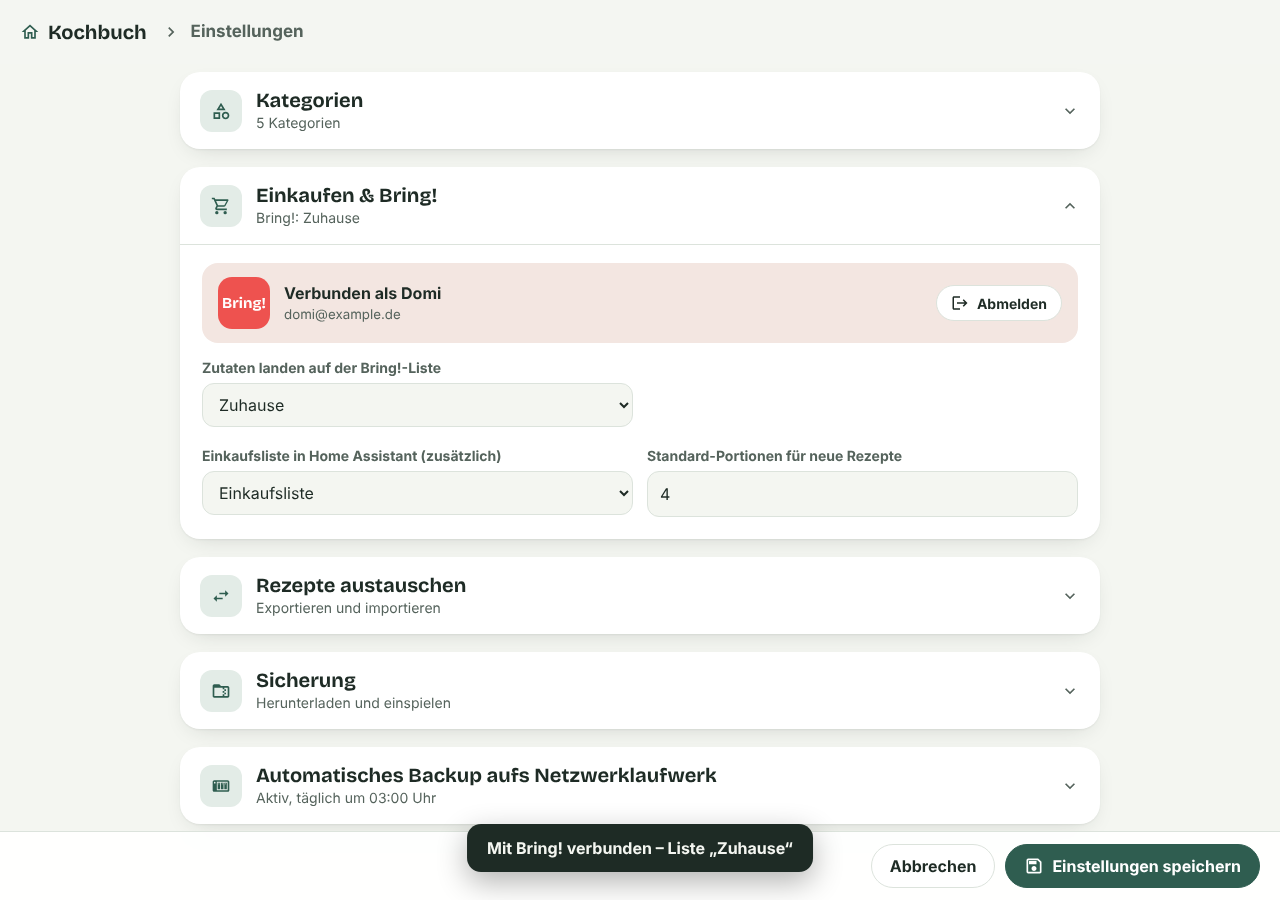
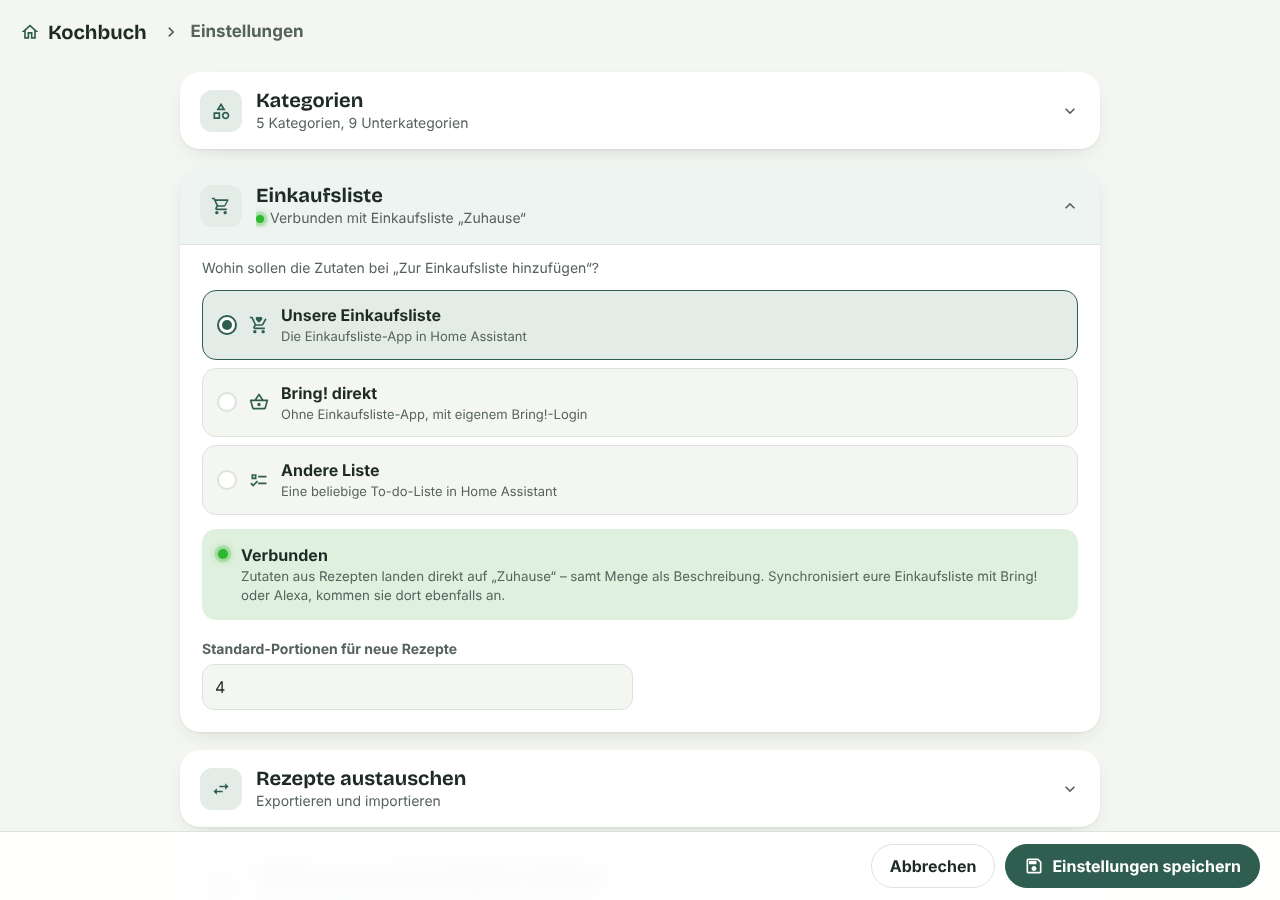
Kochbuch 1.9.0: Verbindung zur Einkaufsliste-App
- Einstellungen › Einkaufsliste: Ziel wählbar (Unsere Einkaufsliste, Bring! direkt, andere Liste)
- Zutaten gehen als Artikel + Menge (Beschreibung) an die Einkaufsliste
- Grünes Lämpchen bei aktiver Verbindung; ws kochbuch/link für die Einkaufsliste-Karte

Claude-Session: https://claude.ai/code/session_01DF6XX5kd56oiDmByM1R25Q

diff --git a/custom_components/kochbuch/frontend/kochbuch-panel.js b/custom_components/kochbuch/frontend/kochbuch-panel.js
@@ -1,7 +1,7 @@
 /* Kochbuch – Panel für Home Assistant
  * https://github.com/domiundergroun/Kochrezepte
  */
-const KB_VERSION = "1.8.1";
+const KB_VERSION = "1.9.0";
 
 /* ------------------------------------------------------------------ Hilfen */
 const esc = (v) =>
@@ -681,6 +681,29 @@ code { background: var(--kb-paper); padding: 1px 5px; border-radius: 5px; font-s
 :host([dark]) .serv-quick button.on { color: #0E1A15; }
 .serv-note { color: var(--kb-ink-soft); font-size: 14px; margin: 0; text-align: center; }
 .shop-for { display: inline-flex; align-items: center; gap: 6px; font-weight: 700; color: var(--kb-ink); }
+
+/* Einkaufsliste-Ziel */
+.target-opts { display: grid; gap: 8px; }
+.target-opt { display: flex; align-items: center; gap: 12px; text-align: left; padding: 12px 14px; border-radius: 14px; border: 1.5px solid var(--kb-line); background: var(--kb-paper); }
+.target-opt:hover { border-color: var(--kb-herb); }
+.target-opt.on { border-color: var(--kb-herb); background: var(--kb-herb-soft); }
+.target-opt > ha-icon { color: var(--kb-herb); flex: none; }
+.to-radio { width: 20px; height: 20px; border-radius: 50%; border: 2px solid var(--kb-line); flex: none; position: relative; background: var(--kb-surface); }
+.target-opt.on .to-radio { border-color: var(--kb-herb); }
+.target-opt.on .to-radio::after { content: ""; position: absolute; inset: 3px; border-radius: 50%; background: var(--kb-herb); }
+.to-text { display: flex; flex-direction: column; min-width: 0; }
+.to-text small { color: var(--kb-ink-soft); font-size: 13px; }
+.target-body { margin-top: 14px; }
+.lamp { display: inline-block; width: 10px; height: 10px; border-radius: 50%; margin-right: 7px; vertical-align: 0; flex: none; }
+.lamp.on { background: #2EB82E; box-shadow: 0 0 0 3px rgba(46,184,46,.22), 0 0 8px rgba(46,184,46,.8); animation: glow 2.4s ease-in-out infinite; }
+.lamp.off { background: var(--kb-tomato); box-shadow: 0 0 0 3px color-mix(in srgb, var(--kb-tomato) 22%, transparent); }
+@keyframes glow { 50% { box-shadow: 0 0 0 5px rgba(46,184,46,.12), 0 0 12px rgba(46,184,46,.9); } }
+.link-box { display: flex; align-items: flex-start; gap: 6px; padding: 14px 16px; border-radius: 14px; background: var(--kb-paper); }
+.link-box.ok { background: color-mix(in srgb, #2EB82E 10%, var(--kb-paper)); }
+.link-box .lamp { margin-top: 6px; }
+.link-box div { display: flex; flex-direction: column; }
+.link-box small { color: var(--kb-ink-soft); }
+.fold-text small .lamp { width: 8px; height: 8px; margin-right: 6px; }
 
 /* Dialoge */
 .scrim {
@@ -1585,13 +1608,7 @@ class KochbuchPanel extends HTMLElement {
         <div class="rows">${cats || `<p class="muted">Noch keine Kategorien.</p>`}</div>
         <div class="add-row"><button class="btn" data-action="cat-add"><ha-icon icon="mdi:plus"></ha-icon>Hauptkategorie hinzufügen</button></div>
       `)}
-      ${this._fold("einkaufen", "mdi:cart-outline", "Einkaufen & Bring!", this._bringReady() ? `Bring!: ${esc((s.bring || {}).list_name || "verbunden")}` : (s.shopping_list ? esc(name(s.shopping_list)) : "Nicht eingerichtet"), `
-        ${this._renderBring()}
-        <div class="fields" style="margin-top:18px">
-          <div class="f s3"><label for="s-list">Einkaufsliste in Home Assistant${this._bringReady() ? " (zusätzlich)" : ""}</label>
-            <select id="s-list" data-s="shopping_list"><option value="">Keine</option>${todos.map((e) => `<option value="${esc(e)}" ${s.shopping_list === e ? "selected" : ""}>${esc(name(e))}</option>`).join("")}</select></div>
-          <div class="f s3"><label for="s-serv">Standard-Portionen für neue Rezepte</label><input id="s-serv" type="number" min="1" data-s="default_servings" value="${s.default_servings || 4}"></div>
-        </div>`)}
+      ${this._fold("einkaufen", "mdi:cart-outline", "Einkaufsliste", this._shopSummary(s), this._renderShopSettings(s, todos, name))}
       ${this._fold("austausch", "mdi:swap-horizontal", "Rezepte austauschen", "Exportieren und importieren", `
         <p class="muted" style="margin:-6px 0 14px">Gebt Rezepte als Datei weiter, z. B. an Freunde mit eigenem Kochbuch, oder übernehmt Rezepte aus so einer Datei. Fotos sind enthalten. Einzelne Rezepte oder ganze Kategorien exportiert ihr direkt dort über <ha-icon icon="mdi:export-variant" style="--mdc-icon-size:16px;vertical-align:-3px"></ha-icon>.</p>
         <div class="settings-actions">
@@ -1615,6 +1632,87 @@ class KochbuchPanel extends HTMLElement {
       </button>
       ${open ? `<div class="fold-body">${body}</div>` : ""}
     </section>`;
+  }
+
+  _appEntities() {
+    const reg = this._hass.entities || {};
+    return Object.keys(this._hass.states).filter((e) => e.startsWith("todo.") && reg[e]?.platform === "einkaufsliste").sort();
+  }
+
+  _appEntity(st = this.settings) {
+    const apps = this._appEntities();
+    return apps.includes(st.shopping_app) ? st.shopping_app : apps[0] || "";
+  }
+
+  /** Wohin die Zutaten gehen: {kind: "einkaufsliste"|"bring"|"todo"|"", entity} */
+  _shopTarget(st = this.settings) {
+    const t = st.shopping_target || "";
+    const app = this._appEntity(st);
+    const bring = !!(st.bring && st.bring.email && st.bring.list_uuid);
+    const todo = st === this.settings ? this._todoTarget() : st.shopping_list;
+    if (t === "einkaufsliste") return { kind: app ? "einkaufsliste" : "", entity: app };
+    if (t === "bring") return { kind: bring ? "bring" : "" };
+    if (t === "todo") return { kind: todo ? "todo" : "", entity: todo };
+    if (app) return { kind: "einkaufsliste", entity: app };
+    if (bring) return { kind: "bring" };
+    return { kind: todo ? "todo" : "", entity: todo };
+  }
+
+  _appConnected(st = this.settings) {
+    const t = this._shopTarget(st);
+    if (t.kind !== "einkaufsliste") return false;
+    const state = this._hass.states[t.entity];
+    return !!state && !["unavailable", "unknown"].includes(state.state);
+  }
+
+  _shopSummary(st) {
+    const t = this._shopTarget(st);
+    const fname = (e) => this._hass.states[e]?.attributes?.friendly_name || e;
+    if (t.kind === "einkaufsliste") {
+      return this._appConnected(st)
+        ? `<span class="lamp on"></span>Verbunden mit Einkaufsliste „${esc(fname(t.entity))}“`
+        : `<span class="lamp off"></span>Einkaufsliste nicht erreichbar`;
+    }
+    if (t.kind === "bring") return `Bring!: ${esc((st.bring || {}).list_name || "verbunden")}`;
+    if (t.kind === "todo") return esc(fname(t.entity));
+    return "Nicht eingerichtet";
+  }
+
+  _renderShopSettings(st, todos, name) {
+    const apps = this._appEntities();
+    const t = st.shopping_target || (apps.length ? "einkaufsliste" : this._bringReady() ? "bring" : "todo");
+    const opt = (id, icon, title, sub, disabled) => `<button type="button" class="target-opt ${t === id ? "on" : ""}" data-action="shop-target-set" data-t="${id}" ${disabled ? "disabled" : ""} aria-pressed="${t === id}">
+        <span class="to-radio"></span><ha-icon icon="${icon}"></ha-icon><span class="to-text"><b>${title}</b><small>${sub}</small></span></button>`;
+    let body = "";
+    if (t === "einkaufsliste") {
+      const ent = this._appEntity(st);
+      const ok = this._appConnected({ ...st, shopping_target: "einkaufsliste" });
+      body = apps.length ? `
+        <div class="link-box ${ok ? "ok" : "bad"}">
+          <span class="lamp ${ok ? "on" : "off"}"></span>
+          <div><b>${ok ? "Verbunden" : "Nicht erreichbar"}</b><small>${ok ? `Zutaten aus Rezepten landen direkt auf „${esc(name(ent))}“ – samt Menge als Beschreibung. Synchronisiert eure Einkaufsliste mit Bring! oder Alexa, kommen sie dort ebenfalls an.` : "Die Liste meldet sich gerade nicht. Ist die Einkaufsliste-Integration eingerichtet und Home Assistant gestartet?"}</small></div>
+        </div>
+        ${apps.length > 1 ? `<div class="fields" style="margin-top:14px"><div class="f s3"><label for="s-app">Liste</label>
+          <select id="s-app" data-s="shopping_app">${apps.map((e) => `<option value="${esc(e)}" ${e === ent ? "selected" : ""}>${esc(name(e))}</option>`).join("")}</select></div></div>` : `<input type="hidden" data-s="shopping_app" value="${esc(ent)}">`}`
+        : `<p class="hint" style="color:var(--kb-tomato)">Die Integration „Einkaufsliste“ wurde nicht gefunden. Installiert sie über HACS (domiundergroun/Einkaufsliste) und richtet sie ein.</p>`;
+    } else if (t === "bring") {
+      body = this._renderBring();
+    } else {
+      body = `<div class="fields"><div class="f s3"><label for="s-list">To-do-Liste in Home Assistant</label>
+        <select id="s-list" data-s="shopping_list"><option value="">Bitte wählen</option>${todos.filter((e) => !apps.includes(e)).map((e) => `<option value="${esc(e)}" ${st.shopping_list === e ? "selected" : ""}>${esc(name(e))}</option>`).join("")}</select></div></div>`;
+    }
+    return `
+      <p class="muted" style="margin:-6px 0 12px">Wohin sollen die Zutaten bei „Zur Einkaufsliste hinzufügen“?</p>
+      <div class="target-opts">
+        ${opt("einkaufsliste", "mdi:cart-heart", "Unsere Einkaufsliste", apps.length ? "Die Einkaufsliste-App in Home Assistant" : "Nicht installiert", false)}
+        ${opt("bring", "mdi:basket-outline", "Bring! direkt", "Ohne Einkaufsliste-App, mit eigenem Bring!-Login", false)}
+        ${opt("todo", "mdi:format-list-checks", "Andere Liste", "Eine beliebige To-do-Liste in Home Assistant", false)}
+      </div>
+      <input type="hidden" data-s="shopping_target" value="${esc(t)}">
+      <div class="target-body">${body}</div>
+      <div class="fields" style="margin-top:18px">
+        <div class="f s3"><label for="s-serv">Standard-Portionen für neue Rezepte</label><input id="s-serv" type="number" min="1" data-s="default_servings" value="${st.default_servings || 4}"></div>
+      </div>`;
   }
 
   _renderBring() {
@@ -1851,12 +1949,12 @@ class KochbuchPanel extends HTMLElement {
           <div class="row"><button class="btn" data-action="dlg-close">Abbrechen</button><button class="btn primary" data-action="shop-next"><ha-icon icon="mdi:arrow-right"></ha-icon>Weiter zu den Zutaten</button></div>`;
       } else {
         const items = this._shopItems(d);
-        const both = this._bringReady() && this._todoTarget();
+        const both = false;
         const n = items.filter((i) => i.name && i.on).length;
         const total = items.filter((i) => i.name).length;
         const label = "zur Einkaufsliste hinzufügen";
         inner = `<h2>Was fehlt noch?</h2>
-          <p>Mengen <button class="linkish shop-for" data-action="shop-back"><ha-icon icon="mdi:account-group-outline" style="--mdc-icon-size:18px"></ha-icon>für ${d.servings} ${esc(word)} (ändern)</button>. Wählt ab, was ihr daheim habt. Der Rest kommt ${d.target === "bring" ? `auf eure Einkaufsliste${this.settings.bring?.list_name ? ` „${esc(this.settings.bring.list_name)}“` : ""}` : "auf die Einkaufsliste"}.</p>
+          <p>Mengen <button class="linkish shop-for" data-action="shop-back"><ha-icon icon="mdi:account-group-outline" style="--mdc-icon-size:18px"></ha-icon>für ${d.servings} ${esc(word)} (ändern)</button>. Wählt ab, was ihr daheim habt. Der Rest kommt ${d.target === "bring" ? `auf eure Einkaufsliste${this.settings.bring?.list_name ? ` „${esc(this.settings.bring.list_name)}“` : ""}` : d.entity ? `auf eure Einkaufsliste „${esc(this._hass.states[d.entity]?.attributes?.friendly_name || d.entity)}“` : "auf die Einkaufsliste"}.</p>
           ${both ? `<div class="seg"><button class="${d.target === "bring" ? "on" : ""}" data-action="shop-target" data-t="bring">${esc(this.settings.bring?.list_name || "Bring!")}</button><button class="${d.target === "todo" ? "on" : ""}" data-action="shop-target" data-t="todo">${esc(this._hass.states[this._todoTarget()]?.attributes?.friendly_name || "Home Assistant")}</button></div>` : ""}
           <div class="shop-head"><span>${n} von ${total} ausgewählt</span><span><button class="linkish" data-action="shop-all" data-on="1">Alle</button><button class="linkish" data-action="shop-all" data-on="0">Keine</button></span></div>
           <ul class="shop-list">${orderWithin(items.map((it) => ({ ...it, heading: !!it.group })), (e) => !e.on).map((it) => it.group ? `<li class="shop-group">${esc(it.group)}</li>`
@@ -1909,9 +2007,9 @@ class KochbuchPanel extends HTMLElement {
 
   _openShop() {
     const r = this._recipe(this.view.id);
-    const target = this._bringReady() ? "bring" : "todo";
-    if (target === "todo" && !this._todoTarget()) { this._showToast("Keine Einkaufsliste eingerichtet – meldet euch in den Einstellungen bei Bring! an.", true); return; }
-    this.dialog = { type: "shop", step: "servings", recipeId: r.id, servings: this.servings || r.servings, off: new Set(this.checked), target };
+    const t = this._shopTarget();
+    if (!t.kind) { this._showToast("Keine Einkaufsliste eingerichtet – wählt sie in den Einstellungen unter „Einkaufsliste“.", true); return; }
+    this.dialog = { type: "shop", step: "servings", recipeId: r.id, servings: this.servings || r.servings, off: new Set(this.checked), target: t.kind, entity: t.entity };
     this.render();
   }
 
@@ -1961,9 +2059,19 @@ class KochbuchPanel extends HTMLElement {
         }) });
         where = res.list_name ? `die Einkaufsliste „${res.list_name}“` : "die Einkaufsliste";
       } else {
-        const entity = this._todoTarget();
-        for (const i of items) await this._hass.callService("todo", "add_item", { item: i.spec ? `${i.name} (${i.spec})` : i.name }, { entity_id: entity });
-        where = `„${this._hass.states[entity]?.attributes?.friendly_name || entity}“`;
+        const entity = d.entity || this._todoTarget();
+        const st = this._hass.states[entity];
+        if (!st || st.state === "unavailable") throw new Error("Die Einkaufsliste ist gerade nicht erreichbar");
+        // Listen mit Beschreibungsfeld (z. B. unsere Einkaufsliste) bekommen die Menge als Beschreibung
+        const withDesc = ((st.attributes.supported_features || 0) & 64) === 64;
+        for (const i of items) {
+          const [nm, ...rest] = i.name.split(/,\s*/);
+          const name = d.target === "einkaufsliste" ? nm.trim() || i.name : i.name;
+          const spec = d.target === "einkaufsliste" ? [i.spec, rest.join(", ")].filter(Boolean).join(", ") : i.spec;
+          const data = withDesc ? { item: name, ...(spec ? { description: spec } : {}) } : { item: spec ? `${name} (${spec})` : name };
+          await this._hass.callService("todo", "add_item", data, { entity_id: entity });
+        }
+        where = `die Einkaufsliste „${st.attributes.friendly_name || entity}“`;
       }
       this.dialog = null; this.render();
       this._showToast(`${items.length} ${items.length === 1 ? "Zutat" : "Zutaten"} auf ${where}`);
@@ -2095,6 +2203,7 @@ class KochbuchPanel extends HTMLElement {
       case "shop-next": this.dialog.step = "list"; this.servings = this.dialog.servings; this.render(); break;
       case "shop-back": this.dialog.step = "servings"; this.dialog.error = null; this.render(); break;
       case "shop-target": this.dialog.target = el.dataset.t; this.render(); break;
+      case "shop-target-set": this._readSettings(); this.settingsDraft.shopping_target = el.dataset.t; this.render(); break;
       case "shop-go": this._sendShop(); break;
       case "fold": this._readSettings(); if (this.folds.has(id)) this.folds.delete(id); else this.folds.add(id); try { localStorage.setItem("kochbuch-folds", JSON.stringify([...this.folds])); } catch (e) { /* egal */ } this.render(); break;
       case "bring-login": {

diff --git a/custom_components/kochbuch/websocket.py b/custom_components/kochbuch/websocket.py
@@ -12,9 +12,10 @@ import voluptuous as vol
 from homeassistant.components import websocket_api
 from homeassistant.core import HomeAssistant, callback
 from homeassistant.helpers.aiohttp_client import async_get_clientsession
+from homeassistant.helpers import entity_registry as er
 from homeassistant.helpers.dispatcher import async_dispatcher_connect
 
-from .const import DOMAIN, SIGNAL_UPDATED, VERSION
+from .const import DOMAIN, EINKAUFSLISTE_DOMAIN, SIGNAL_UPDATED, VERSION
 from .importer import async_import_url
 from .bring import BringClient, BringError
 from .backup import BackupError, clean_backup_config, public_backup, test_connection
@@ -51,6 +52,7 @@ def async_register(hass: HomeAssistant) -> None:
         ws_bring_select,
         ws_bring_logout,
         ws_bring_add,
+        ws_link,
     ):
         websocket_api.async_register_command(hass, handler)
 
@@ -339,3 +341,30 @@ async def ws_bring_add(hass, connection, msg):
             store.bring_auth = client.auth
             await store.async_save_bring_tokens()
     connection.send_result(msg["id"], {"added": count, "list_name": info.get("list_name", "")})
+
+
+# ------------------------------------------------ Verbindung zur Einkaufsliste
+def link_status(hass: HomeAssistant) -> dict[str, Any]:
+    """Ist das Kochbuch mit der Einkaufsliste-Integration verbunden?"""
+    settings = _store(hass).settings
+    entity_id = settings.get("shopping_app") or ""
+    target = settings.get("shopping_target") or ""
+    platform_ok = False
+    if entity_id:
+        entry = er.async_get(hass).async_get(entity_id)
+        platform_ok = bool(entry and entry.platform == EINKAUFSLISTE_DOMAIN)
+    state = hass.states.get(entity_id) if entity_id else None
+    available = bool(state and state.state not in ("unavailable", "unknown"))
+    return {
+        "target": target,
+        "entity_id": entity_id,
+        "name": (state.attributes.get("friendly_name") if state else "") or entity_id,
+        "connected": target == "einkaufsliste" and platform_ok and available,
+        "version": VERSION,
+    }
+
+
+@websocket_api.websocket_command({vol.Required("type"): "kochbuch/link"})
+@callback
+def ws_link(hass, connection, msg):
+    connection.send_result(msg["id"], link_status(hass))

diff --git a/custom_components/kochbuch/store.py b/custom_components/kochbuch/store.py
@@ -27,6 +27,7 @@ from .const import (
     DEFAULT_SETTINGS,
     IMAGES_DIR,
     IMAGES_URL,
+    SHOPPING_TARGETS,
     SIGNAL_UPDATED,
     STORAGE_KEY,
     STORAGE_VERSION,
@@ -293,6 +294,11 @@ class KochbuchStore:
     async def async_set_settings(self, settings: dict[str, Any]) -> dict[str, Any]:
         if "shopping_list" in settings:
             self.settings["shopping_list"] = _str(settings["shopping_list"], 200)
+        if "shopping_target" in settings:
+            target = _str(settings["shopping_target"], 20)
+            self.settings["shopping_target"] = target if target in SHOPPING_TARGETS else ""
+        if "shopping_app" in settings:
+            self.settings["shopping_app"] = _str(settings["shopping_app"], 200)
         if "default_servings" in settings:
             self.settings["default_servings"] = _int(
                 settings["default_servings"], 4, 1, 100

diff --git a/custom_components/kochbuch/const.py b/custom_components/kochbuch/const.py
@@ -1,7 +1,7 @@
 """Konstanten für die Kochbuch-Integration."""
 
 DOMAIN = "kochbuch"
-VERSION = "1.8.1"
+VERSION = "1.9.0"
 
 STORAGE_KEY = "kochbuch.rezepte"
 STORAGE_VERSION = 1
@@ -56,8 +56,14 @@ CATEGORY_ALIASES_V17 = {
 
 DEFAULT_SETTINGS = {
     "shopping_list": "",
+    # Wohin „Zur Einkaufsliste hinzufügen“ schickt: einkaufsliste | bring | todo ("" = automatisch)
+    "shopping_target": "",
+    "shopping_app": "",
     "default_servings": 4,
     "categories": DEFAULT_CATEGORIES,
     "categories_v17": True,
     "categories_v18": True,
 }
+
+EINKAUFSLISTE_DOMAIN = "einkaufsliste"
+SHOPPING_TARGETS = ("", "einkaufsliste", "bring", "todo")

diff --git a/README.md b/README.md
@@ -2,7 +2,7 @@
 
 Euer gemeinsames Rezeptbuch direkt in Home Assistant – mit eigener Seite in der Seitenleiste, Kochmodus fürs Küchentablet und Einkaufsliste per Knopfdruck.
 
-![Version](https://img.shields.io/badge/Version-1.8.1-2F5D50) ![HACS](https://img.shields.io/badge/HACS-Custom-F2B134)
+![Version](https://img.shields.io/badge/Version-1.9.0-2F5D50) ![HACS](https://img.shields.io/badge/HACS-Custom-F2B134)
 
 ## Was es kann
 
@@ -13,7 +13,8 @@ Euer gemeinsames Rezeptbuch direkt in Home Assistant – mit eigener Seite in de
 - **Kategorien verwalten** in den Einstellungen: Haupt- und Unterkategorien hinzufügen, umbenennen, Farbe und Symbol wählen, Reihenfolge ändern, löschen (Rezepte einer gelöschten Kategorie werden in eine andere verschoben)
 - **Rezeptlisten pro Kategorie** mit Suche (auch nach Zutaten) und Sortierung; oben führt „Kochbuch“ jederzeit zurück zur Startseite
 - **Portionen umrechnen** – alle Mengen passen sich automatisch an (inkl. ½, ¼ …)
-- **Bring!-Anbindung**: in den Einstellungen mit dem Bring!-Konto anmelden und die Liste wählen; im Rezept „Zur Einkaufsliste hinzufügen“ fragt zuerst nach der Personenzahl, rechnet die Mengen um und zeigt alle Zutaten; ihr wählt ab, was daheim ist, der Rest landet in Bring!
+- **Verbindung zur Einkaufsliste-App** ([domiundergroun/Einkaufsliste](https://github.com/domiundergroun/Einkaufsliste)): Zutaten landen direkt auf eurer Einkaufsliste, grünes Lämpchen zeigt die Verbindung in beiden Apps
+- **Bring!-Anbindung** (alternativ): in den Einstellungen mit dem Bring!-Konto anmelden und die Liste wählen; im Rezept „Zur Einkaufsliste hinzufügen“ fragt zuerst nach der Personenzahl, rechnet die Mengen um und zeigt alle Zutaten; ihr wählt ab, was daheim ist, der Rest landet in Bring!
 - **Einkaufsliste in Home Assistant** (To-do-Liste) als Alternative oder zusätzlich
 - **Zubereitung in zwei Teilen**: Vorbereitung (schneiden, abwiegen …) und Kochen, jeweils mit eigener Zeit
 - **Kochmodus**: ein Schritt pro Bildschirm in großer Schrift, Bildschirm bleibt an, Zutaten daneben
@@ -64,6 +65,7 @@ anzahl: 4          # bei favoriten/neu
 
 | Version | Änderungen |
 |---|---|
+| 1.9.0 | Einstellungen › Einkaufsliste: Ziel wählbar (Unsere Einkaufsliste, Bring! direkt, andere To-do-Liste); Verbindung zur Einkaufsliste-App mit grünem Lämpchen |
 | 1.8.1 | Im Rezept heißt der Knopf jetzt „Zur Einkaufsliste hinzufügen“ (statt „Zu Bring! hinzufügen“); Dialog-Knöpfe passen aufs Handy |
 | 1.8.0 | Neue Unterkategorie „Soßen“ unter Hauptgericht (wird bei bestehenden Installationen einmalig ergänzt) |
 | 1.7.5 | Einstellungen: Sicherung und automatisches Backup in einem Bereich zusammengefasst |
